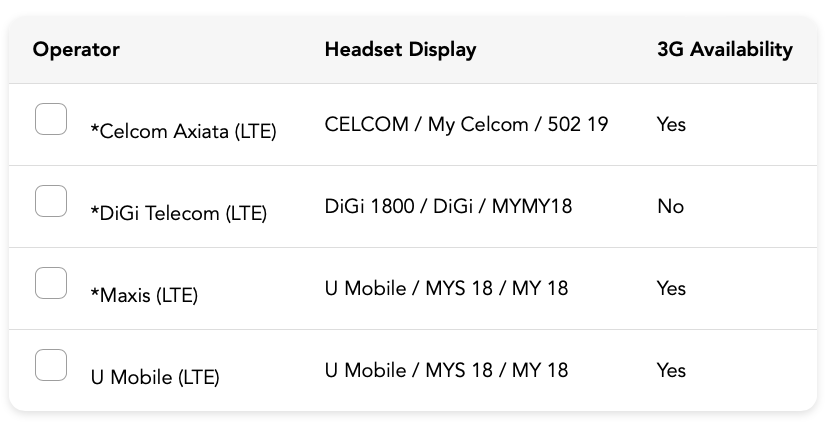
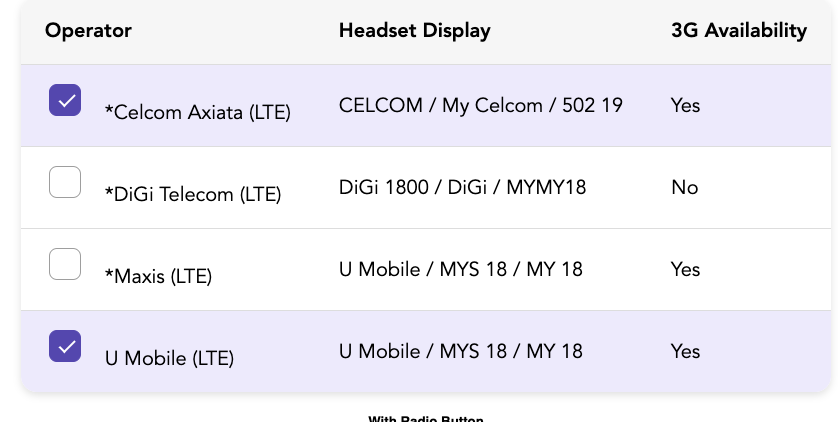
fix(style): fix style

diff --git a/src/Styles/TableStyles.ts b/src/Styles/TableStyles.ts
@@ -13,7 +13,7 @@ const tableStyles = {
         borderTop: defaultTheme.borderTop,
     },
     selectedRow: {
-        background: 'defaultTheme.selectionColor',
+        backgroundColor: defaultTheme.selectionColor,
     },
 } as const;
 
